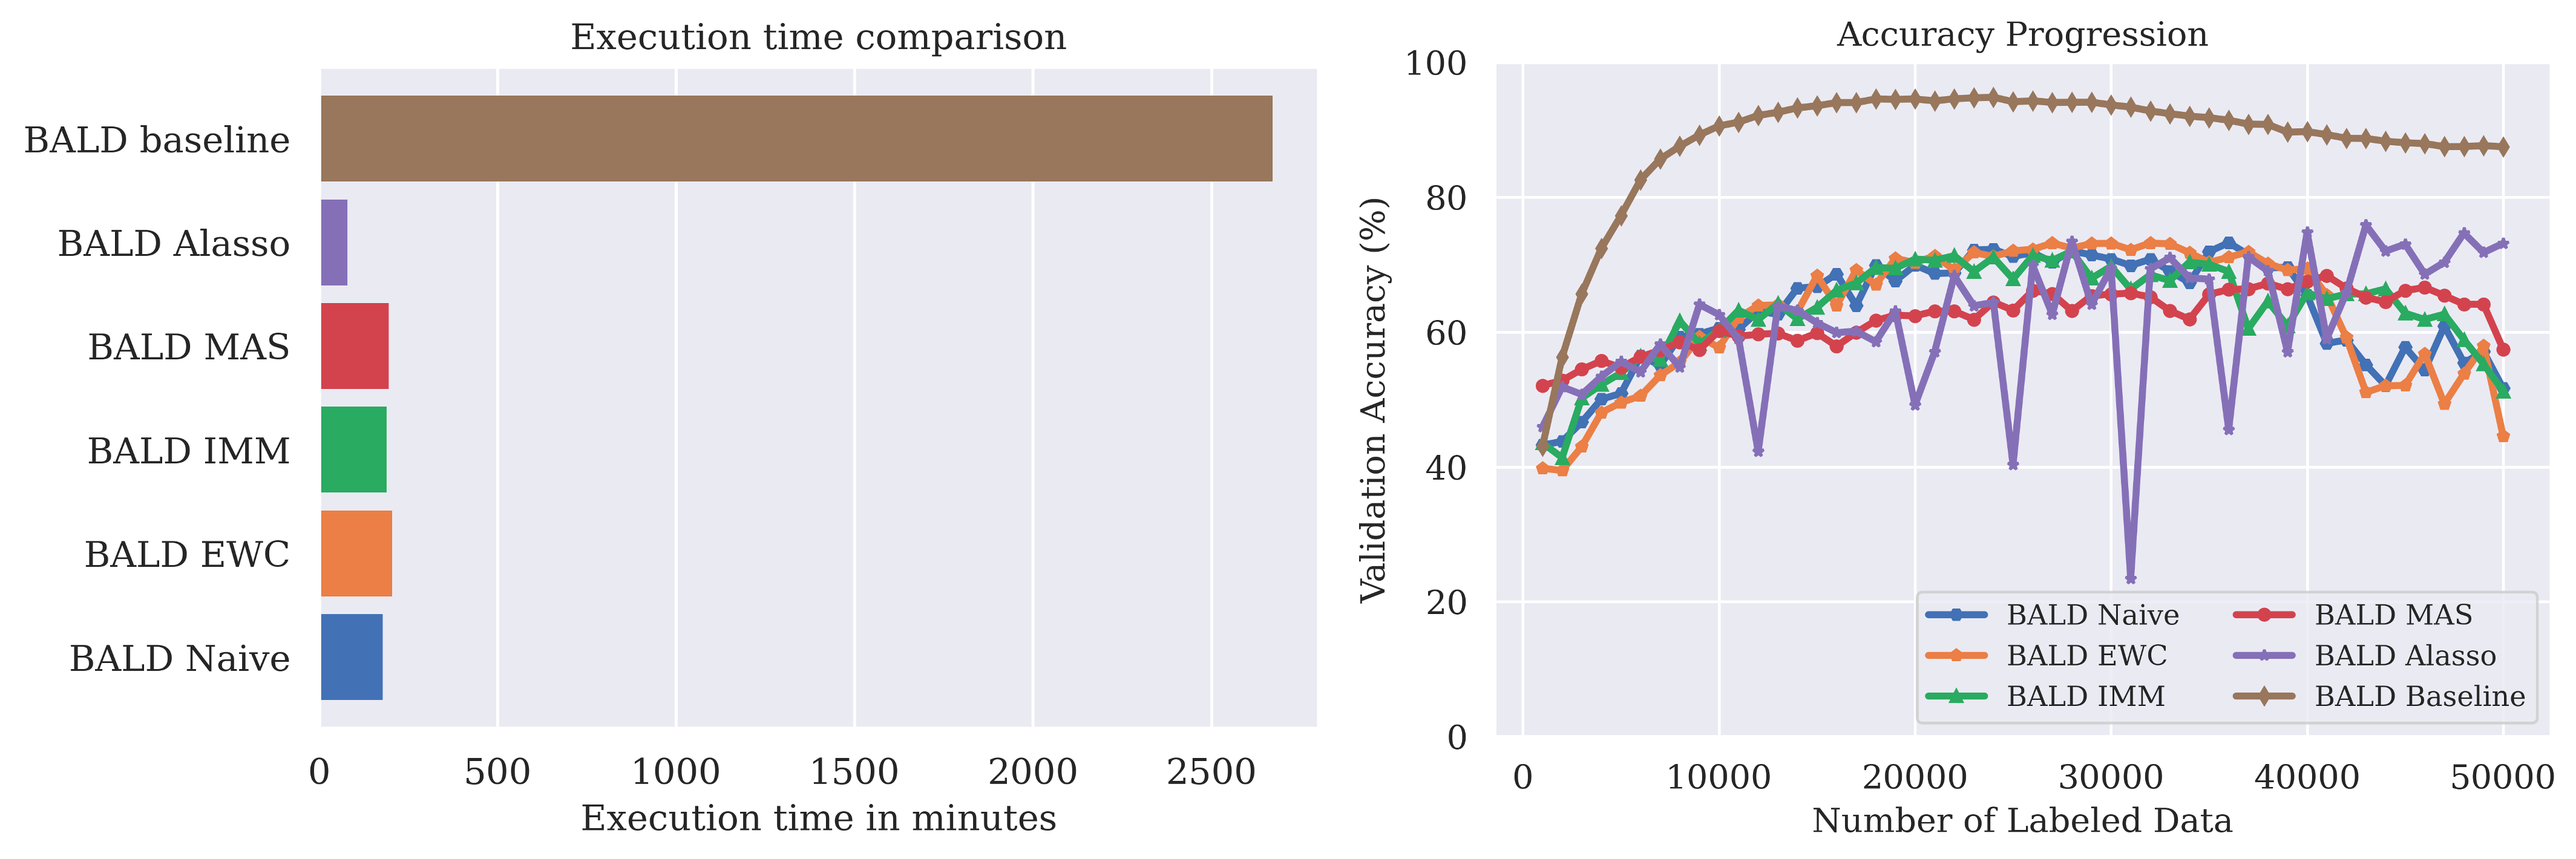
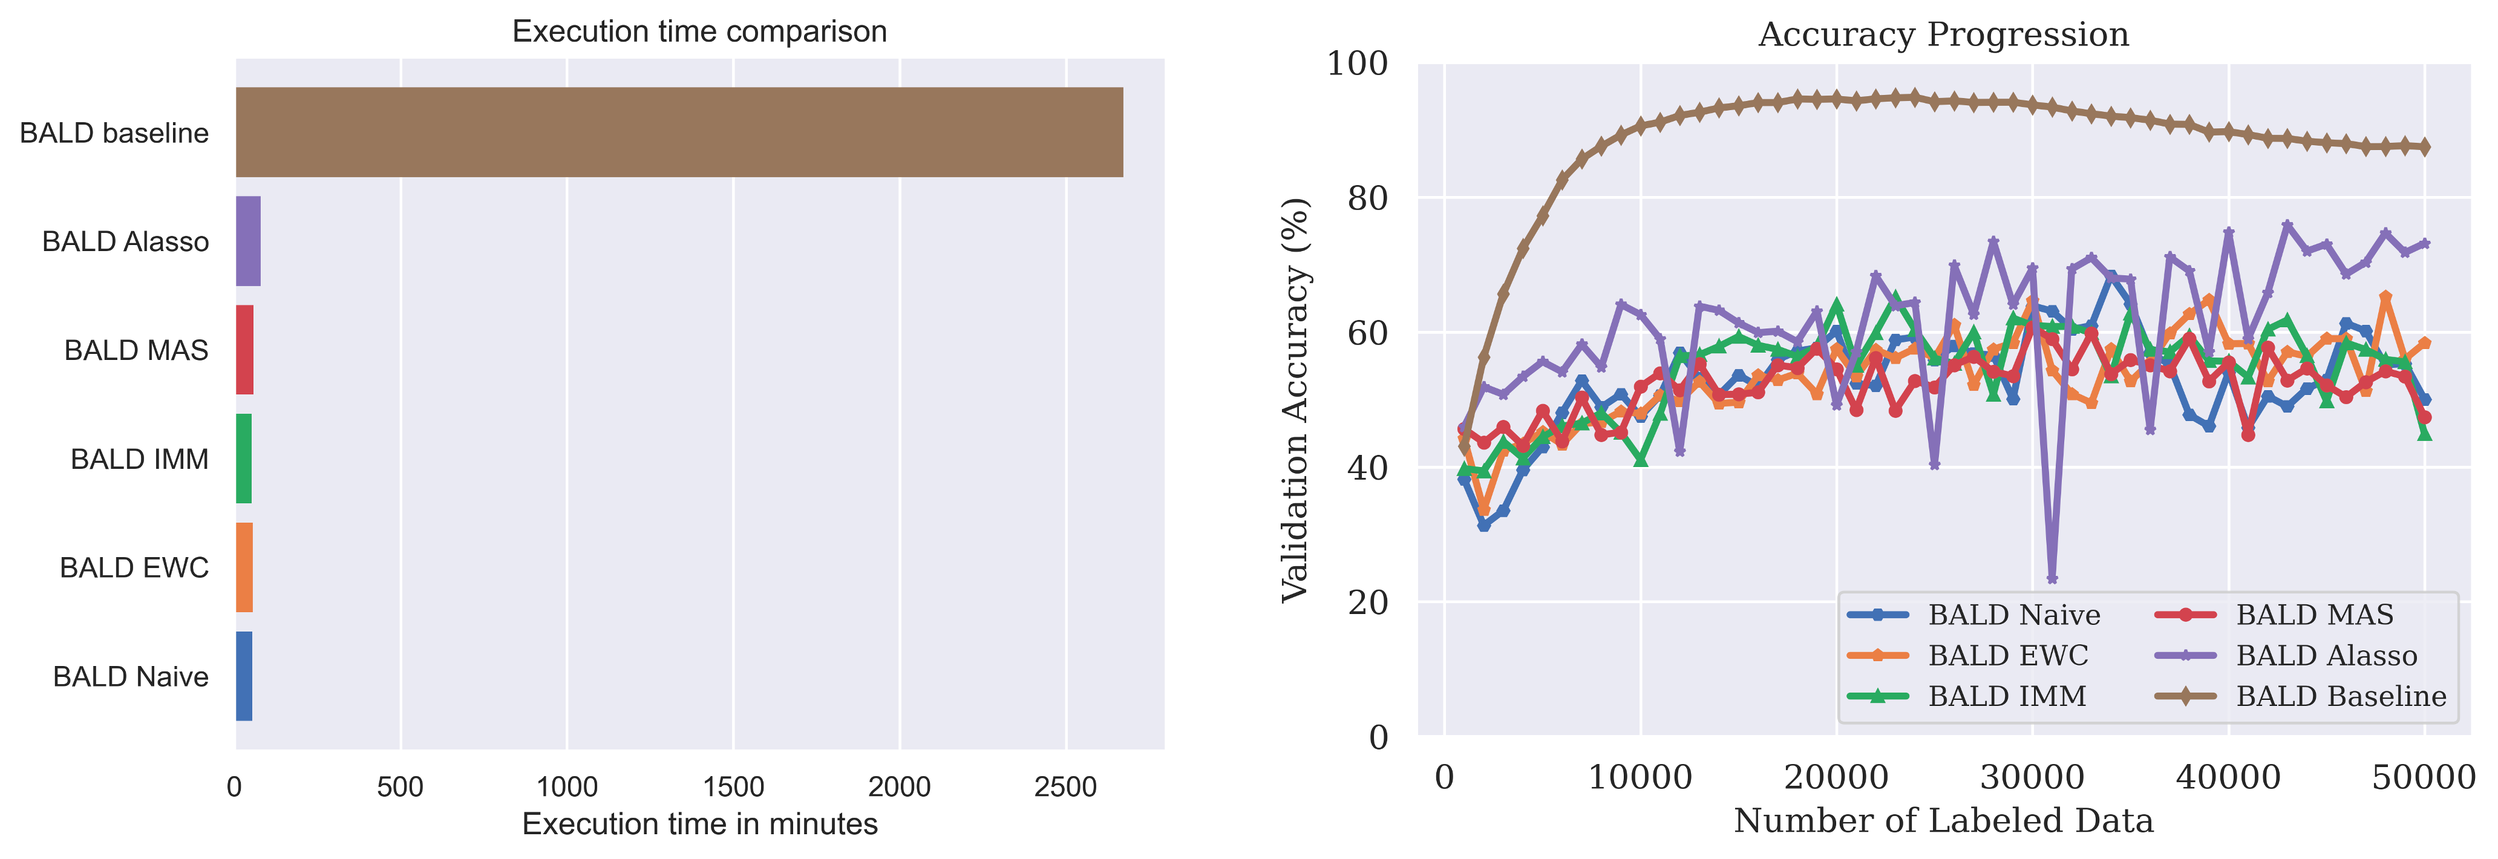
Redo BALD plots

diff --git a/doc/thesis/sections/related_work.tex b/doc/thesis/sections/related_work.tex
@@ -147,7 +147,7 @@ Notable examples of structural approaches include Elastic Weight Consolidation (
 Synapses (MAS) \cite{aljundi2018memory}, Incremental Moment Matching (IMM) \cite{lee2017overcoming} as well as Asymmetric Loss
 Approximation by Single-Side Overestimation (ALASSO) \cite{park2019continual} which is an extension of Synaptic Intelligence (SI)
 \cite{zenke2017continual}. All the structural regularization approaches will be covered in more detail in the section on
-\hyperref[sec:Related_work:Continual_Learning:Experiments]{the continual learning approaches used in the experiments}. \\
+\hyperref[sec:Related_work:Continual_Learning:Experiments]{the continual learning approaches used in the experiments}. \par
 Functional regularization approaches are inspired by knowledge distillation \cite{hinton2015distilling}. They add a distillation
 loss to the objective function which is computed based on the prediction of a data sample stored for future use. These data samples
 are called soft targets. Li et al. \cite{li2017learning} compute the distillation loss by using the output of the newly arrived task
@@ -221,7 +221,7 @@ the authors claim. The main observation made by the Park et al. about SI is that
 because it assumes that the loss function is symmetric. Park et al. first show that this assumption is not always true through empirical observation and then
 present a new approach to approximate the loss function on the unobserved side more precisely. The fundamental observation and idea of ALASSO can be seen in
 Figure \ref{fig:Alasso}. Since ALASSO extends the SI framework, we strongly recommend the reader to familiarize themselves with SI before trying to understand
-ALASSO. In the following we will assume that the reader is familiar with SI and only explain the extension that ALASSO brings to SI. \\
+ALASSO. In the following we will assume that the reader is familiar with SI and only explain the extension that ALASSO brings to SI. \par
 Since ALASSO is a structural regularization method like MAS and EWC, it alters the loss function as follows
 % Total loss equation
 \begin{equation}
@@ -292,7 +292,7 @@ The mean and covariance update for mode-IMM is given by
     \Sigma^*_{1:N} = (\sum_{i=N-k}^N \alpha_i  \Sigma_i^{-1})^{-1}
 \end{gather}
 To approximate the covariance matrix, mode-IMM uses the inverse of the Fisher Information Matrix like EWC. Furthermore, the authors assume that
-the model parameters are pairwise independent, making the covariance matrix diagonal and therefore saving a lot of computation. \\ 
+the model parameters are pairwise independent, making the covariance matrix diagonal and therefore saving a lot of computation. \par
 Apart from moment matching methods, IMM also includes approaches to transfer model parameters from previous tasks. The first approach is called
 \textbf{Weight Transfer}. When using continual learning with Weight Transfer the model parameters of the previous task are used as initialization for the
 current task. This approach is very similar to the term Warm Start commonly used in Active Learning. \textbf{L2-transfer} is the next transfer technique
@@ -332,6 +332,22 @@ being orthogonal to it.
 % Structure: First some general introduction then present
 % the different approaches used in the experiments (EWC, MAS, ALASSO, IMM, potentially Replay?)
 
+\subsubsection{AGEM}
+Averaged Gradient Episodic Memory (A-GEM) is an exemplar rehearsal approach to Continual Learning, proposed by Chaudhry et al. \cite{chaudhry2018efficient}.
+A-GEM is based on Gradient Episodic Memory (GEM) \cite{lopez2017gradient}, aiming to make it more efficient than GEM while maintaining similar or even better
+performance. We advise the reader to read the original paper for a more detailed explanation of GEM. \par
+Like GEM, A-GEM uses a so-called episodic Memory $M_k$ for each Task $T_k$. A-GEM aims to avoid catastrophic forgetting by ensuring that the loss for previous
+tasks does not increase while simultaneously aiming to minimize the loss on the current task. Formally, A-GEM minimizes proposes a solution to the following 
+objective 
+\begin{equation}
+    \text{minimize}_\theta l(f_\theta,T_N) \text{s.t.} l(f_\theta,T_n) \leq l(f_\theta^{N-1},T_n) \forall n < N
+\end{equation}
+where $f_\theta^{N-1}$ is the model trained for the previous task.
+
+\begin{equation}
+    \text{minimize}_\tilde{g} \frac{1}{2} {\lVert g - \tilde{g} \rVert}^2_2 \text{s.t.} \langle \tilde{g},g_k \rangle \geq 0 \forall k < N
+\end{equation}
+
 
 \section{Model Stealing}
 \label{sec:Related_work:Model_Stealing}
@@ -362,7 +378,7 @@ of data to this day is a time-intensive task. By using Active Learning, which wo
 Second, Active Learning aims to query the most informative samples, yielding the most performant model with as little data as possible. Third, by using samples selected
 by Active Learning to query the target model, the model stealing attack can successfully be disguised as a benign query process. Pal et al. demonstrate this by showing 
 that ActiveThief successfully evades PRADA \cite{juuti2019prada}, a state-of-the-art model stealing defense which detects attacks by analyzing the distribution of distances
-between queries. \\
+between queries. \par
 The authors of ActiveThief evaluate their framework using the Active Learning strategies Random, Uncertainty \cite{lewis1994sequential}, CoreSet \cite{sener2017active},
 DeepFool-based Active Learning (DFAL) \cite{ducoffe2018adversarial} and a custom combination of DFAL and CoreSet. They use a custom CNN architecture for both target and
 substitute model and show that ActiveThief is able to successfully steal the target model for multiple benchmark datasets such as MNIST and CIFAR-10. A visualization of

diff --git a/doc/thesis/thesis.tex b/doc/thesis/thesis.tex
@@ -25,7 +25,7 @@
 \author{Felix Möller}
 
 %% Title (and possibly subtitle) of the thesis
-\title{Continual Active Learning for effective Model Stealing Attacks}
+\title{Continual Active Learning for Effective Model Stealing Attacks}
 
 %% Type of the thesis 
 \thesistype{Bachelor's Thesis}
